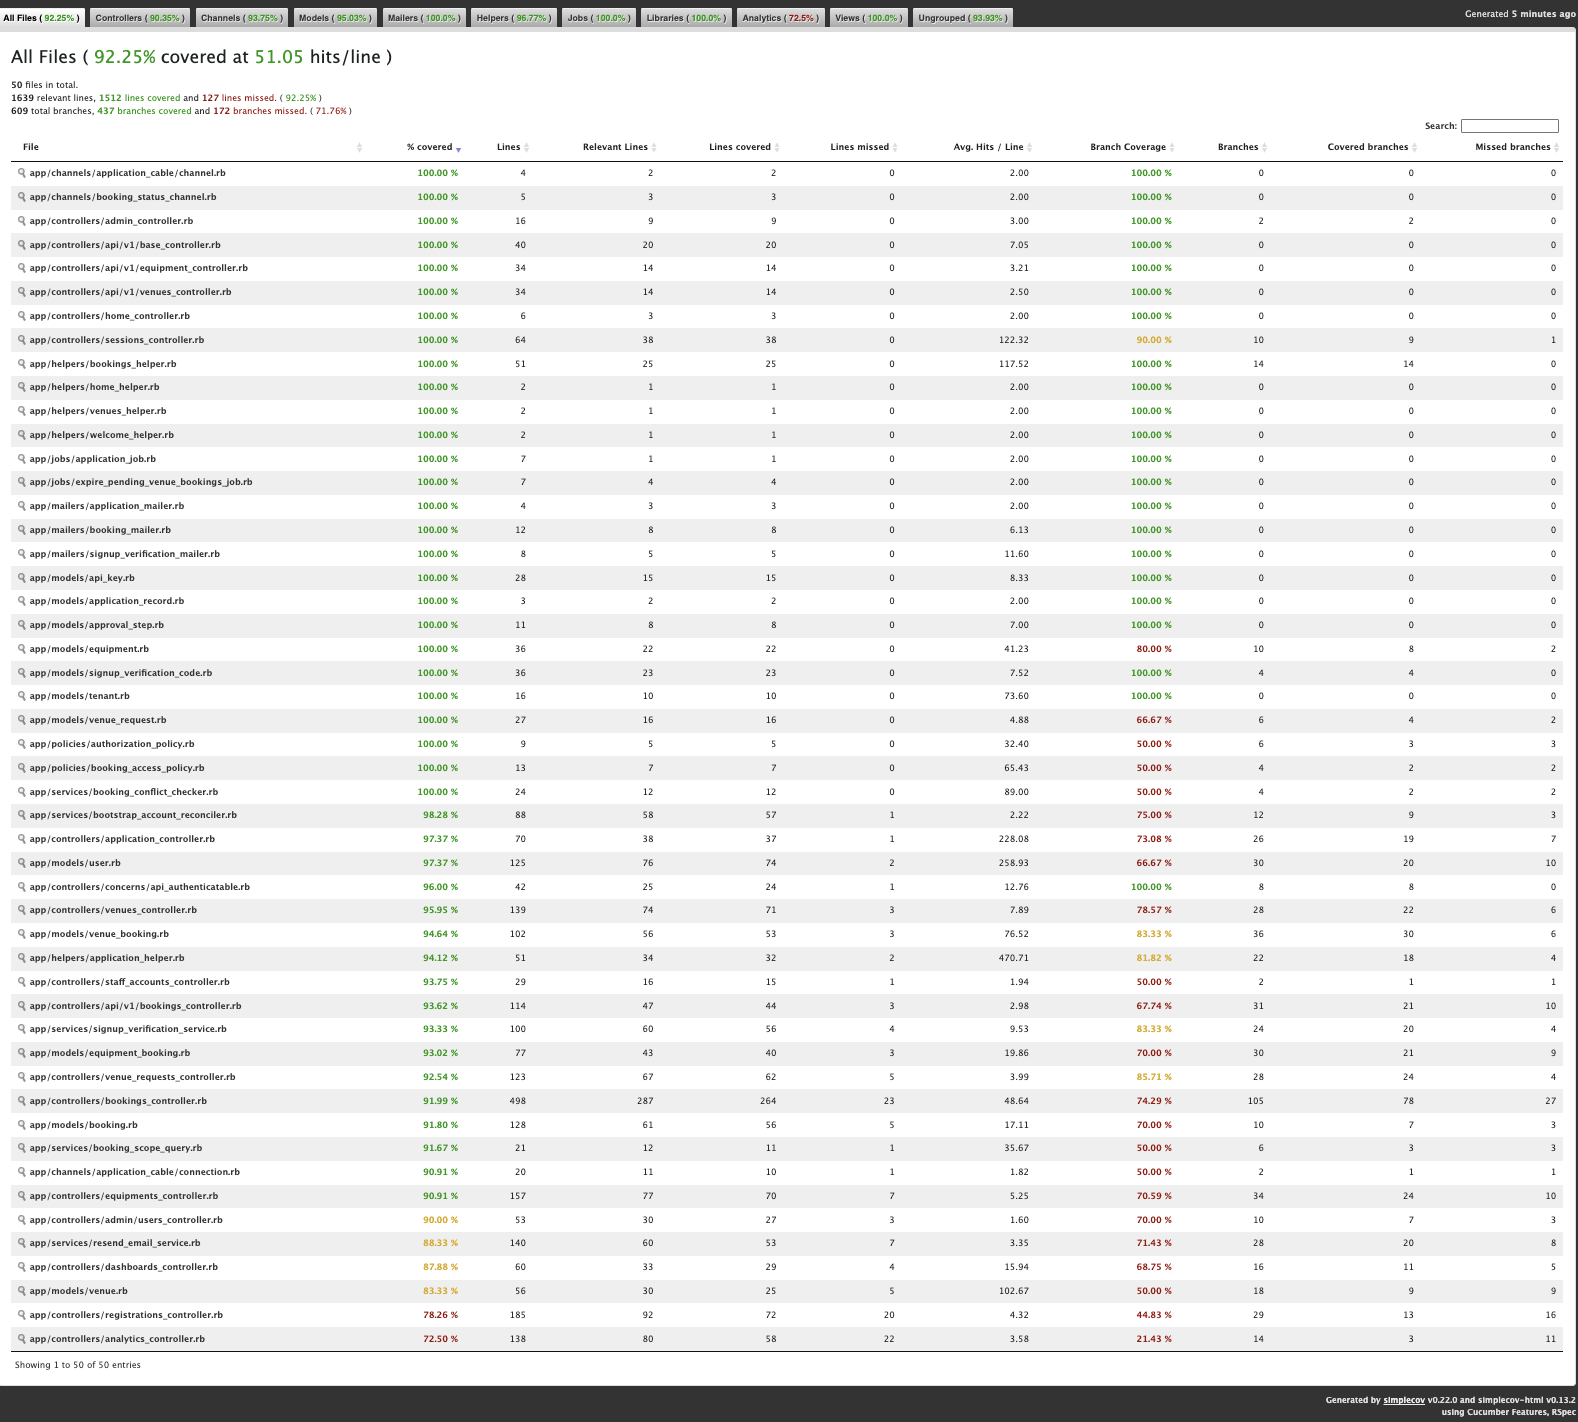
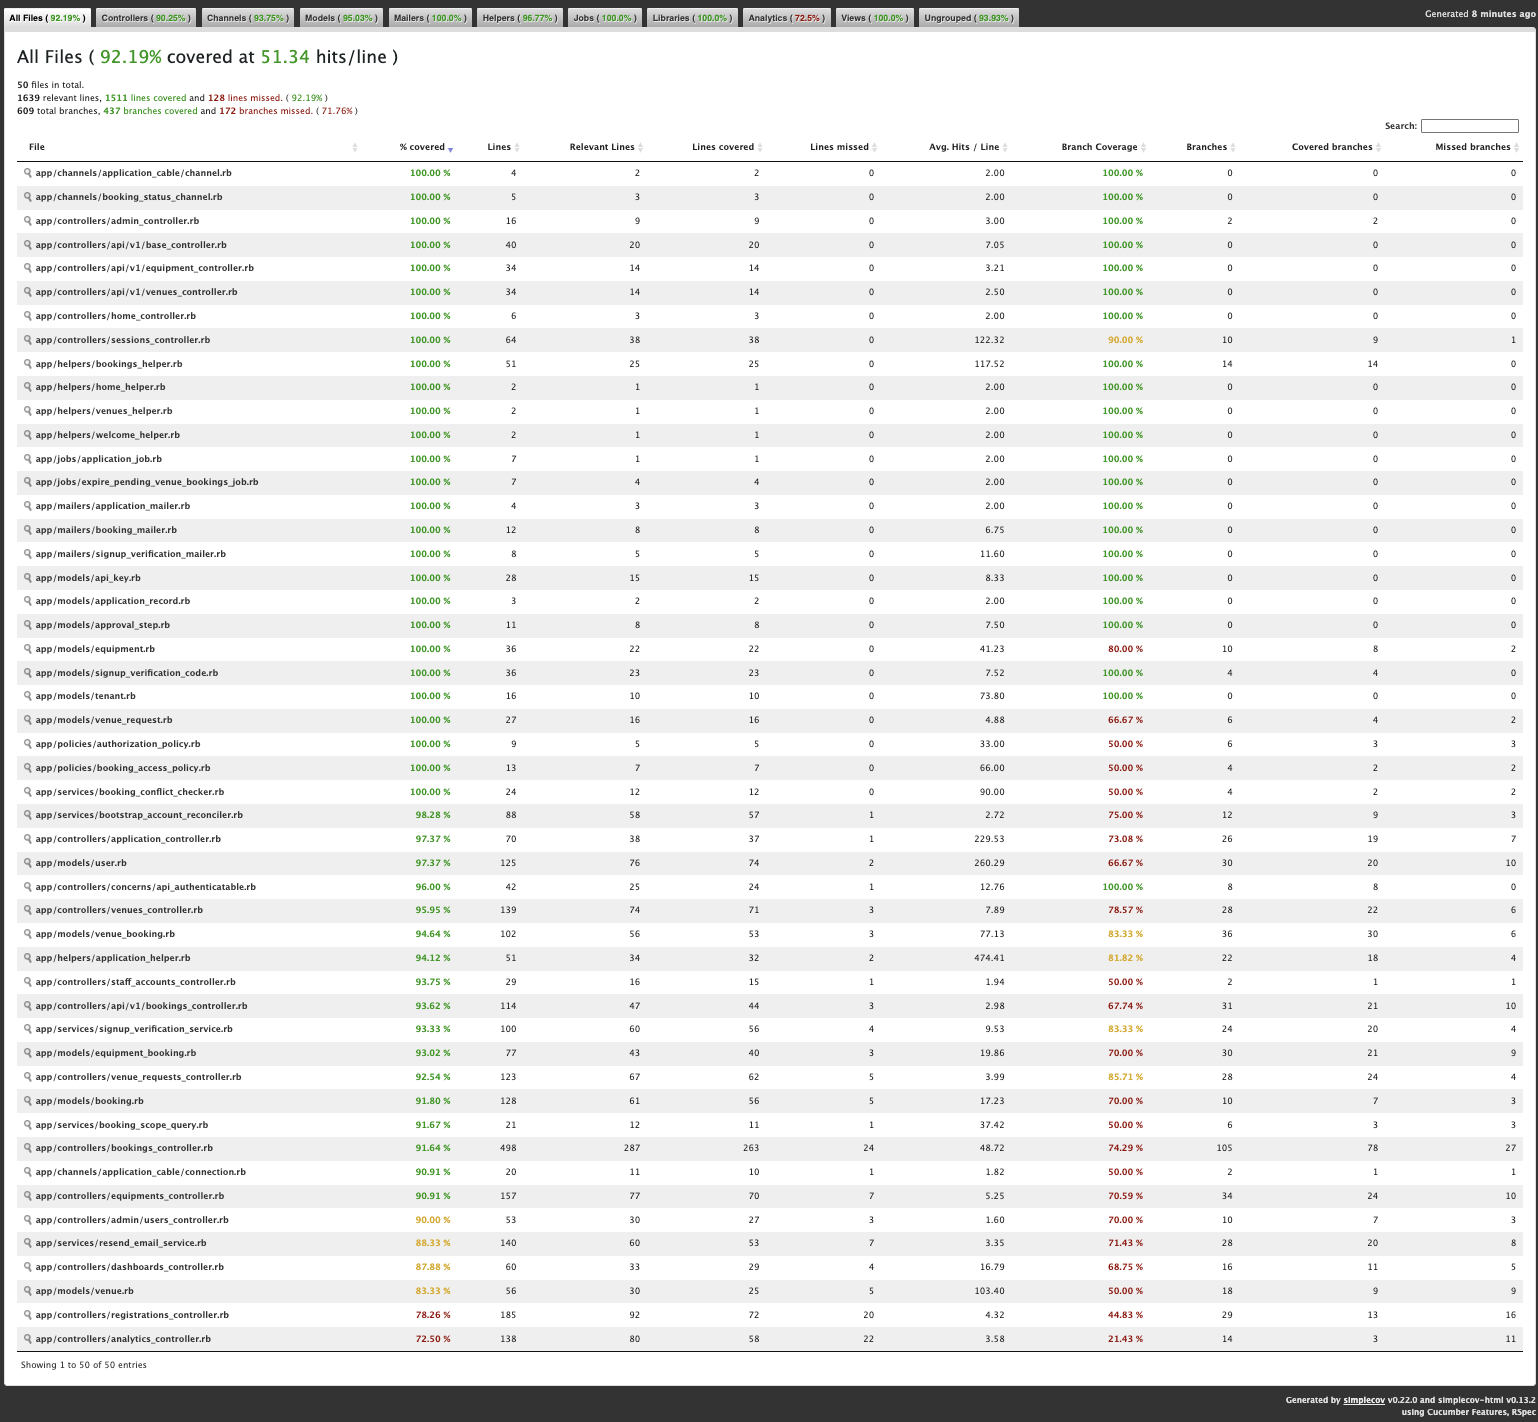
docs: update demo student email placeholder in README and refresh SimpleCov report image

diff --git a/README.md b/README.md
@@ -130,7 +130,7 @@ Running `bin/rails reset` or `bin/rails db:seed` ensures:
 
 | Tenant/College | Root staff email | Demo student email |
 | --- | --- | --- |
-| University | `[email redacted]` | / |
+| University | `[email redacted]` | - |
 | Chung Chi College | `[email redacted]` | `[email redacted]` |
 | New Asia College | `[email redacted]` | `[email redacted]` |
 | United College | `[email redacted]` | `[email redacted]` |